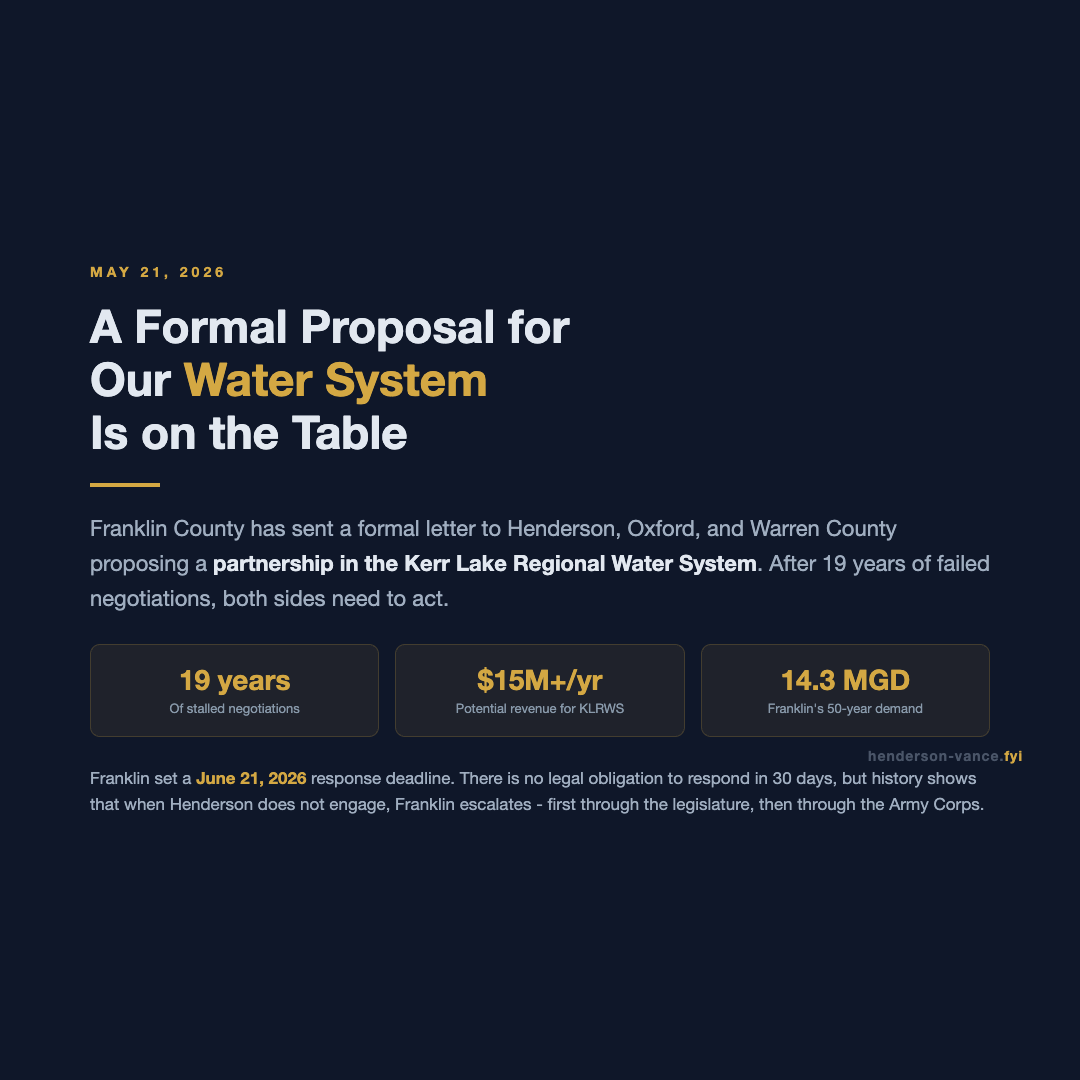
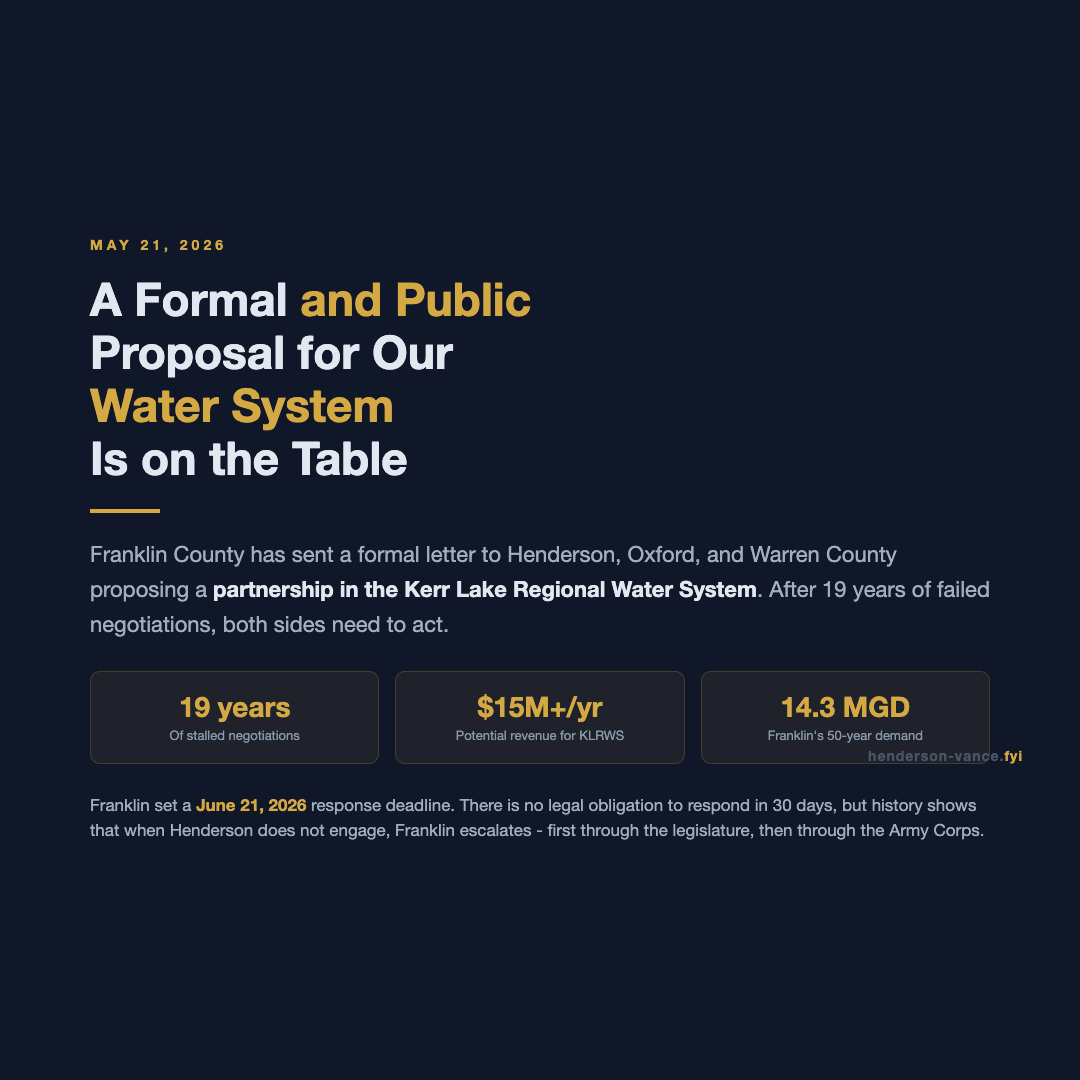
Update card 1 headline: A Formal and Public proposal

Changed region(s): [[0.0611, 0.2139, 0.9167, 0.7944]]

diff --git a/public/carousel/franklin-01-hook.html b/public/carousel/franklin-01-hook.html
@@ -88,7 +88,7 @@
 </head>
 <body>
   <div class="label">May 21, 2026</div>
-  <div class="headline">A Formal Proposal for<br>Our <span class="gold">Water System</span><br>Is on the Table</div>
+  <div class="headline">A Formal <span class="gold">and Public</span><br>Proposal for Our<br><span class="gold">Water System</span><br>Is on the Table</div>
   <div class="divider"></div>
   <div class="body">
     Franklin County has sent a formal letter to Henderson, Oxford, and Warren County proposing a <strong>partnership in the Kerr Lake Regional Water System</strong>. After 19 years of failed negotiations, both sides need to act.
